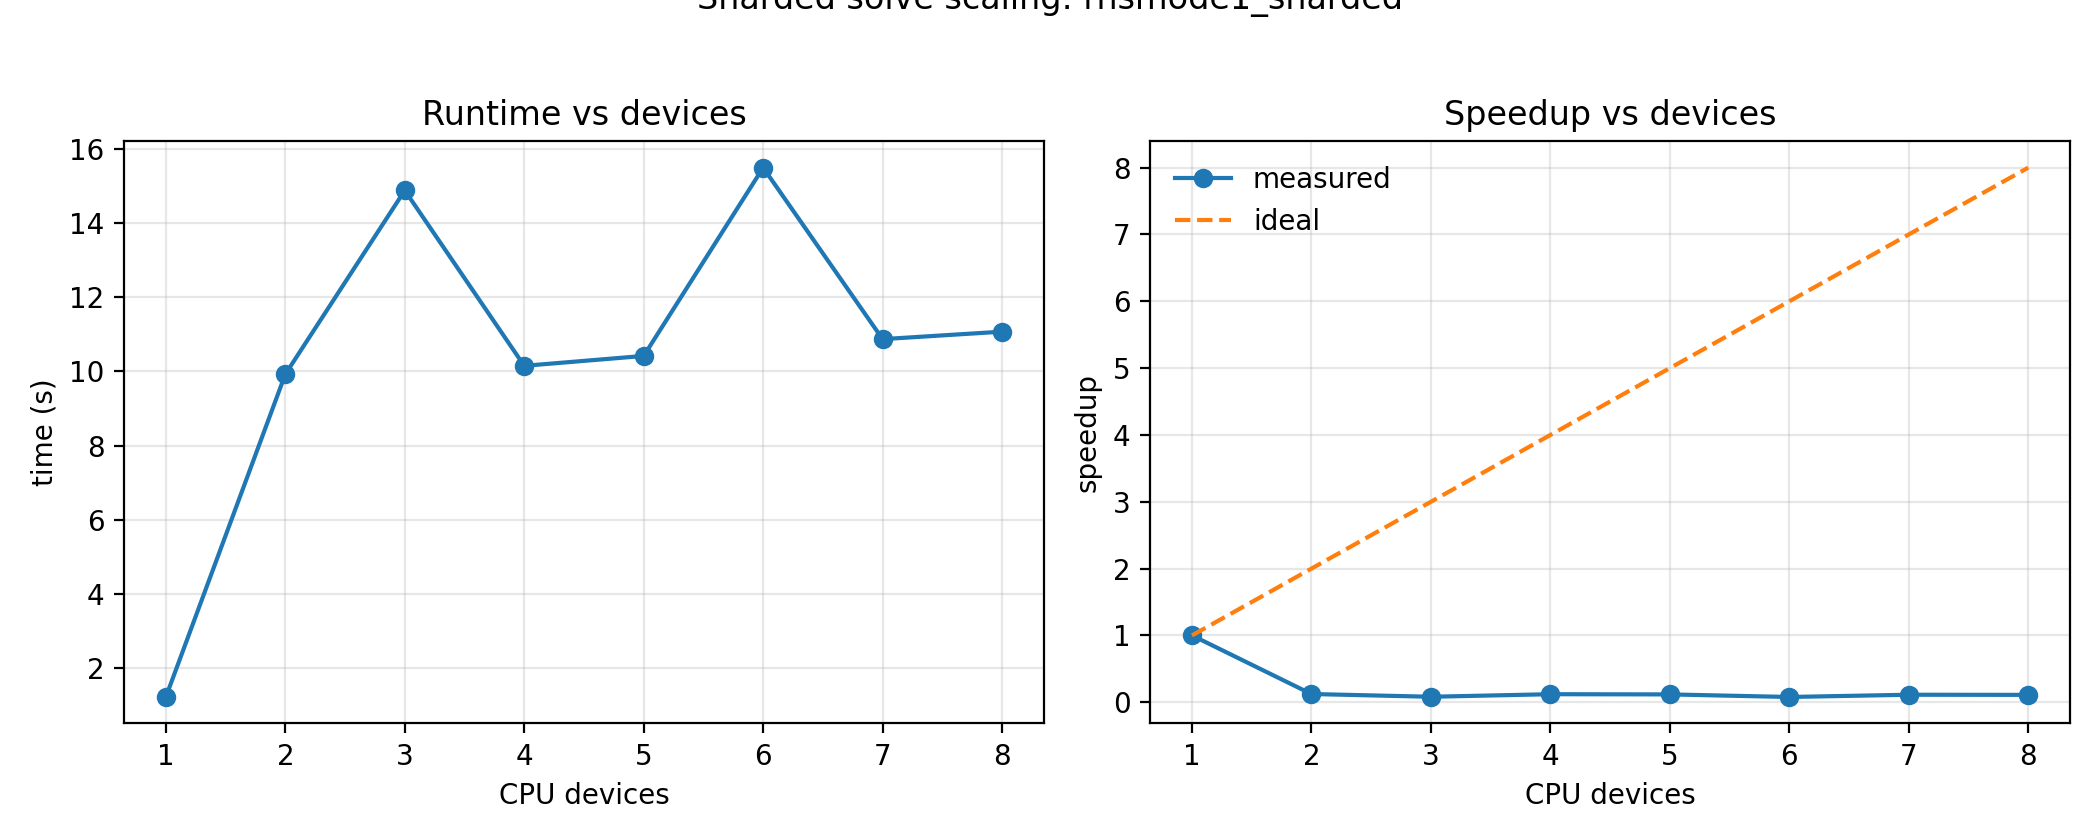
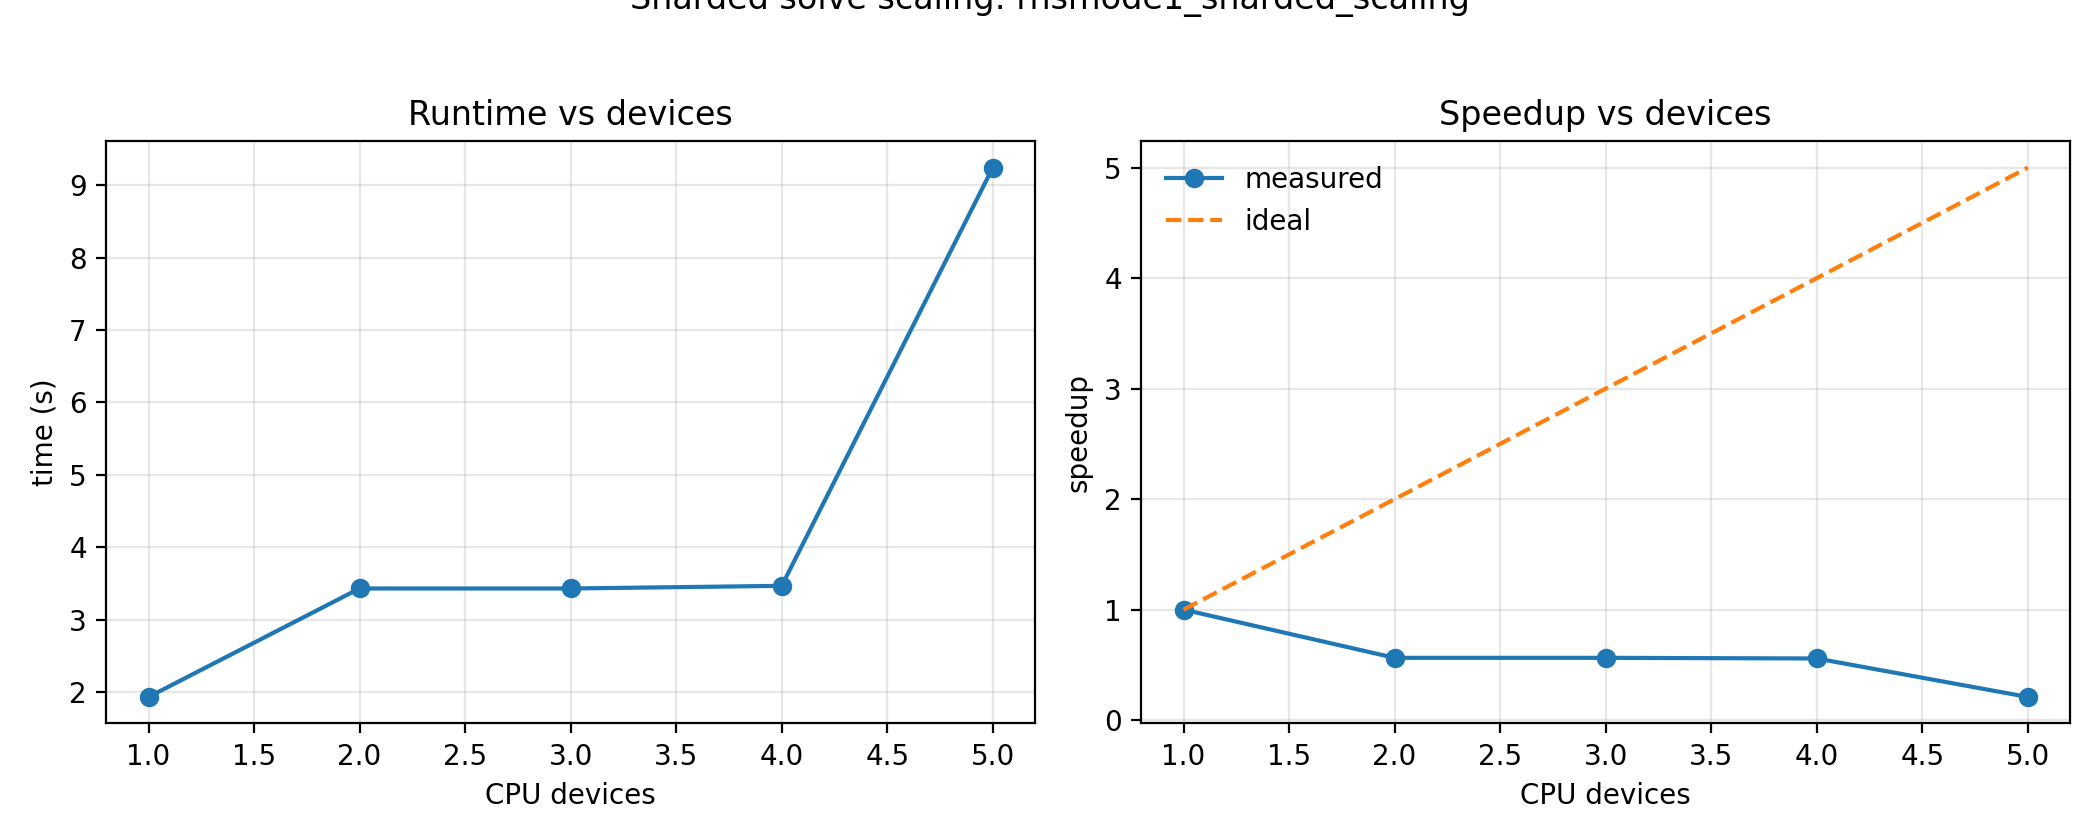
Refresh parallel scaling docs and figures

diff --git a/docs/parallelism.rst b/docs/parallelism.rst
@@ -157,9 +157,9 @@ Benchmark case: `examples/performance/transport_parallel_2min.input.namelist`
 
 Benchmark preconditioner: `SFINCS_JAX_TRANSPORT_PRECOND=xmg`.
 
-Latest cache‑warm sweep (1–8 workers):
-1 worker 149.7s, 2 workers 128.4s, 3 workers 123.3s, 4 workers 122.2s,
-5 workers 123.0s, 6 workers 122.7s, 7 workers 123.0s, 8 workers 122.7s.
+Latest cache‑warm sweep (1–5 workers):
+1 worker 165.3s, 2 workers 142.8s, 3 workers 125.4s, 4 workers 141.7s,
+5 workers 169.9s.
 
 Process‑parallel workers automatically disable sharded matvec and cap
 XLA CPU threads per worker to avoid oversubscription when `SFINCS_JAX_CORES`
@@ -171,9 +171,9 @@ Reproduce:
 
    python examples/performance/benchmark_transport_parallel_scaling.py \
      --input examples/performance/transport_parallel_2min.input.namelist \
-     --workers 1 2 3 4 5 6 7 8 \
+     --workers 1 2 3 4 5 \
      --repeats 1 \
-     --warmup 0 \
+     --warmup 1 \
      --global-warmup 1
 
 The benchmark script uses the transport solve-only path
@@ -186,7 +186,7 @@ parallel behavior instead of full diagnostics/H5 field assembly.
 
    Parallel whichRHS scaling (runtime + speedup vs workers).
 
-For this larger case, scaling reaches ~1.23× and then plateaus.
+For this larger case, scaling reaches ~1.32× (3 workers) and then regresses.
 The plateau reflects that the current process-parallel transport path only
 parallelizes the per-`whichRHS` solves; shared setup/build costs remain serial
 and dominate for this case on a laptop-class CPU.
@@ -336,16 +336,21 @@ On GPUs, JAX will automatically see all local devices.
   divisible by the device count. Because v3 forces **odd** ``Ntheta``/``Nzeta``,
   only odd device counts activate theta/zeta sharding by default. Set
   ``SFINCS_JAX_SHARD_PAD=1`` (default) to pad ghost planes so even device counts
-  can still shard without changing outputs.
+  can still shard without changing outputs in the cached/pjit matvec path.
+  (The current RHSMode=1 distributed-GMRES matvec path still requires
+  divisible theta/zeta partitions.)
 - ``x`` sharding is available as a fallback when odd ``Ntheta``/``Nzeta`` block
   theta/zeta sharding. Use ``SFINCS_JAX_MATVEC_SHARD_AXIS=x`` or set
   ``SFINCS_JAX_MATVEC_SHARD_PREFER_X=1`` with a large ``Nx``. With
   ``SFINCS_JAX_SHARD_PAD=1`` (default), `sfincs_jax` pads ``Nx`` to the next
   multiple of the device count so x‑sharding can still activate.
 - When sharding is active and no explicit RHSMode=1 preconditioner is requested,
-  `sfincs_jax` defaults to a **local line preconditioner** along the sharded
-  axis (theta‑line or zeta‑line). This keeps the preconditioner apply local
-  to each shard, mirroring PETSc-style block‑Jacobi behavior.
+  `sfincs_jax` defaults to an angular-local preconditioner along the sharded
+  axis. For larger systems this can auto-upgrade to overlap-RAS
+  (``theta_schwarz`` / ``zeta_schwarz`` via
+  ``SFINCS_JAX_RHSMODE1_SCHWARZ_AUTO_MIN``), otherwise it uses theta/zeta line
+  blocks. This keeps the preconditioner apply local to each shard, mirroring
+  PETSc-style block-Jacobi/Schwarz behavior.
 - Collisionless, ExB, and magnetic-drift derivative kernels now use a
   sparse-row gather apply when the differentiation matrices are banded/sparse
   (common 3‑point/5‑point schemes). This keeps the operator matrix-free and
@@ -466,34 +471,32 @@ Reproduce:
      --nrep 2000 \
      --global-warmup 1
 
-Sharded solve scaling (distributed GMRES)
------------------------------------------
+Sharded solve scaling (single RHSMode=1)
+----------------------------------------
 
-We also benchmarked a **single RHSMode=1 solve** with theta‑sharded matvecs and
-distributed GMRES enabled:
+We also benchmarked a **single RHSMode=1 solve** with theta-sharded matvecs:
 
 .. code-block:: bash
 
    python examples/performance/benchmark_sharded_solve_scaling.py \
-     --devices 1 2 3 4 5 6 7 8 \
+     --input examples/performance/rhsmode1_sharded_scaling.input.namelist \
+     --devices 1 2 3 4 5 \
+     --warmup 1 \
      --repeats 1 \
-     --global-warmup 1
+     --global-warmup 1 \
+     --shard-axis theta \
+     --gmres-distributed 0
 
-Input: `examples/performance/rhsmode1_sharded.input.namelist`
-(``Ntheta=127, Nzeta=127, Nxi=14, NL=10, Nx=20``).
+Input: `examples/performance/rhsmode1_sharded_scaling.input.namelist`
+(``Ntheta=30, Nzeta=10, Nxi=12, NL=8, Nx=12``).
 
 Latest run (cache warm, Macbook M3 Max):
-1 device 1.22 s, 2 devices 9.93 s, 3 devices 14.88 s, 4 devices 10.15 s,
-5 devices 10.42 s, 6 devices 15.50 s, 7 devices 10.87 s, 8 devices 11.07 s.
+1 device 1.93 s, 2 devices 3.43 s, 3 devices 3.43 s, 4 devices 3.47 s,
+5 devices 9.24 s.
 
-Because SFINCS enforces **odd** ``Ntheta``/``Nzeta``, theta/zeta sharding only
-activates when the device count divides the sharded dimension (e.g. 1, 3, 7 for
-``Ntheta=63``). With ``SFINCS_JAX_SHARD_PAD=1`` (default), `sfincs_jax` pads
-ghost planes so **even device counts can still shard** without changing outputs.
-Scaling is still overhead‑dominated for these medium cases; achieving strong
-scaling for a *single* RHS will require a true domain‑decomposition GMRES with
-local preconditioning and communication‑avoiding reductions. That remains the
-next step for multi‑node scaling.
+This confirms parity-safe sharded execution, but not strong scaling yet.
+Single-RHS GMRES remains reduction-heavy, and the current implementation still
+pays substantial synchronization/compile overhead on >1 CPU device.
 
 Why scaling is still poor for single‑RHS GMRES
 ----------------------------------------------
@@ -527,6 +530,11 @@ for experimentation in both RHSMode=1 and transport (RHSMode=2/3):
 - RHSMode=1: ``SFINCS_JAX_RHSMODE1_PRECONDITIONER=theta_dd`` / ``zeta_dd``
   (block sizes via ``SFINCS_JAX_RHSMODE1_DD_BLOCK_T`` /
   ``SFINCS_JAX_RHSMODE1_DD_BLOCK_Z``).
+  A local-overlap Schwarz variant is available via
+  ``SFINCS_JAX_RHSMODE1_PRECONDITIONER=theta_schwarz`` / ``zeta_schwarz``
+  (overlap via ``SFINCS_JAX_RHSMODE1_DD_OVERLAP``). In auto mode, sharded runs
+  can pick Schwarz preconditioning above
+  ``SFINCS_JAX_RHSMODE1_SCHWARZ_AUTO_MIN``.
 - Transport: ``SFINCS_JAX_TRANSPORT_PRECOND=theta_dd`` / ``zeta_dd``
   (block sizes via ``SFINCS_JAX_TRANSPORT_DD_BLOCK_T`` /
   ``SFINCS_JAX_TRANSPORT_DD_BLOCK_Z``).

diff --git a/README.md b/README.md
@@ -107,9 +107,8 @@ Parallel `whichRHS` scaling for a >2-minute RHSMode=2 transport-matrix case
 
 ![Parallel whichRHS scaling](docs/_static/figures/parallel/transport_parallel_scaling.png)
 
-Latest cache-warm run (1-8 workers): 1 worker 149.7s, 2 workers 128.4s,
-3 workers 123.3s, 4 workers 122.2s, 5 workers 123.0s, 6 workers 122.7s,
-7 workers 123.0s, 8 workers 122.7s.
+Latest cache-warm run (1-5 workers): 1 worker 165.3s, 2 workers 142.8s,
+3 workers 125.4s, 4 workers 141.7s, 5 workers 169.9s.
 
 Enable parallel execution in normal runs:
 
@@ -117,20 +116,15 @@ Enable parallel execution in normal runs:
 export SFINCS_JAX_CORES=4
 ```
 
-Reproduce the 1-8 worker scaling figure and JSON summary:
+Reproduce the 1-5 worker scaling figure and JSON summary:
 
 ```bash
 python examples/performance/benchmark_transport_parallel_scaling.py \
   --input examples/performance/transport_parallel_2min.input.namelist \
-  --workers 1 2 3 4 5 6 7 8 \
+  --workers 1 2 3 4 5 \
   --repeats 1 \
-  --warmup 0 \
+  --warmup 1 \
   --global-warmup 1
-
-# Derivative kernel microbenchmark (single device):
-SFINCS_JAX_PERIODIC_STENCIL=1 python examples/performance/benchmark_sharded_matvec_scaling.py \
-  --input examples/performance/transport_parallel_xxlarge.input.namelist \
-  --axis theta --devices 1 --nrep 100 --repeats 3 --global-warmup 1
 ```
 
 The transport scaling benchmark uses the solve-only path
@@ -142,6 +136,10 @@ Experimental transport domain-decomposition preconditioners are available via
 `SFINCS_JAX_TRANSPORT_DD_BLOCK_T`, `SFINCS_JAX_TRANSPORT_DD_BLOCK_Z`), with
 overlap-RAS variants `theta_schwarz` / `zeta_schwarz`
 (`SFINCS_JAX_TRANSPORT_DD_OVERLAP`).
+
+Single-RHS sharded GMRES is available (see `docs/parallelism.rst`) but still
+needs additional communication-avoiding Krylov work to show strong scaling on
+5+ CPU devices.
 
 For multi-node arrays and advanced parallel modes, see `docs/parallelism.rst`.
 

diff --git a/docs/performance_techniques.rst b/docs/performance_techniques.rst
@@ -378,6 +378,8 @@ RHSMode=1 preconditioning (matrix-free)
 
 - **Point-block Jacobi**: local (x,L) blocks at each :math:`(\theta,\zeta)`.
 - **Theta-line / Zeta-line / ADI**: 1D line solves across angular dimensions.
+- **Theta/Zeta DD + Schwarz**: angular block-Jacobi and overlap-RAS variants
+  (``theta_dd``, ``zeta_dd``, ``theta_schwarz``, ``zeta_schwarz``).
 - **Species-block (PAS)**: full (x,L,θ,ζ) block per species for strong PAS conditioning.
 - **Collision diagonal / xblock / sxblock**: analytic blocks from PAS/FP collisions.
 - **Constraint-aware Schur**: enforces constraintScheme=2 source constraints via a
@@ -398,6 +400,19 @@ Implementation: ``sfincs_jax.v3_driver`` (``use_pas_projection`` and
 ``_project_pas_f``). Control: ``SFINCS_JAX_PAS_PROJECT_CONSTRAINTS`` (auto on for
 ``N_\zeta=1`` tokamak-like runs **except** ``geometryScheme=1`` analytic tokamak
 cases).
+
+**RHSMode=1 angular DD / overlap Schwarz.** ``sfincs_jax`` now exposes
+theta/zeta domain-decomposition preconditioners for RHSMode=1:
+``SFINCS_JAX_RHSMODE1_PRECONDITIONER=theta_dd`` / ``zeta_dd`` (block-Jacobi) and
+``theta_schwarz`` / ``zeta_schwarz`` (overlap-RAS). Controls:
+
+- ``SFINCS_JAX_RHSMODE1_DD_BLOCK_T`` / ``SFINCS_JAX_RHSMODE1_DD_BLOCK_Z``.
+- ``SFINCS_JAX_RHSMODE1_DD_OVERLAP`` (or axis-specific ``..._OVERLAP_T/Z``).
+- ``SFINCS_JAX_RHSMODE1_SCHWARZ_AUTO_MIN``: auto-select Schwarz on sharded runs
+  above the size threshold (default ``4000``).
+
+This keeps preconditioner application local and differentiable while improving
+coupling across angular block boundaries relative to pure block-diagonal DD.
 
 **Constraint-aware Schur (constraintScheme=2).** With constraint variables
 :math:`c`, the linear system is partitioned as
